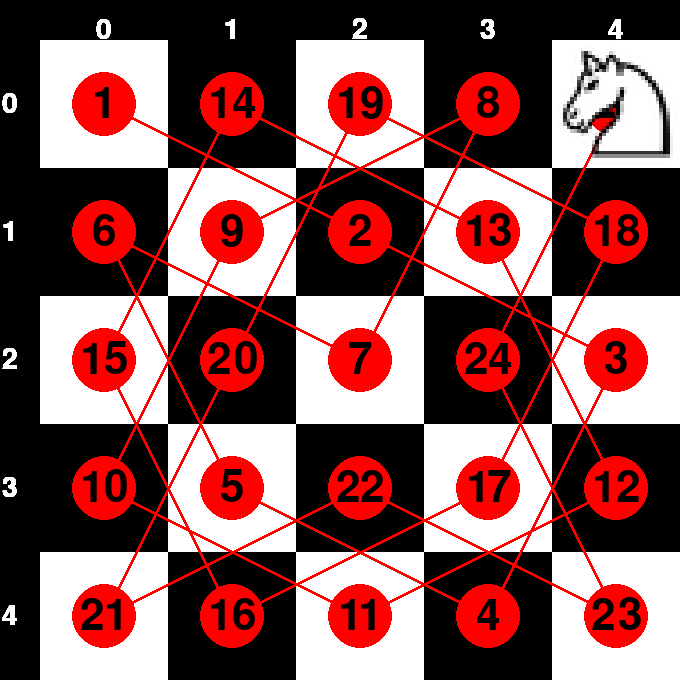
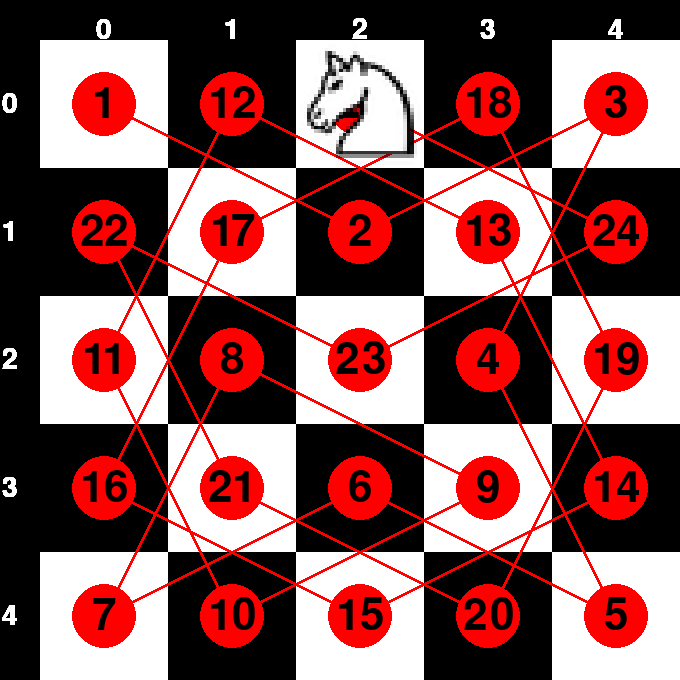
problema en la cuenta de movimientos en implementacion b&b

diff --git a/parte2/branchAndBound.py b/parte2/branchAndBound.py
@@ -17,25 +17,21 @@ def obtener_vecinos(x, y, N, visitado):
     vecinos = []
     for movimiento in movimientos:
         nuevo_x, nuevo_y = x + movimiento[0], y + movimiento[1]
-        
         if es_movimiento_valido(nuevo_x, nuevo_y, N, visitado):
             # Incrementamos movimientos_totales para cada intento de movimiento
-            
             cuenta = sum(1 for m in movimientos if es_movimiento_valido(nuevo_x + m[0], nuevo_y + m[1], N, visitado))
             vecinos.append((nuevo_x, nuevo_y, cuenta))
     
     # Ordena el array vecinos de menor a mayor
     return sorted(vecinos, key=lambda x: x[2])
 
-def recorrido_del_caballo_branch_and_bound(N, camino, visitado, x, y, cuenta_movimientos):
+def recorrido_del_caballo_branch_and_bound(N, camino, visitado, x, y, cuenta_movimientos, movimientos_totales):
     """
     Encuentra un recorrido del caballo utilizando branch and bound con la regla de Warnsdorff.
     """
     if cuenta_movimientos == N * N:
         # Si se ha recorrido todo el tablero, se ha encontrado una solución
-        return True
-    
-    global movimientos_totales
+        return True, movimientos_totales
 
     # Obtener vecinos ordenados por la cantidad de movimientos futuros (heurística)
     vecinos = obtener_vecinos(x, y, N, visitado)
@@ -47,33 +43,45 @@ def recorrido_del_caballo_branch_and_bound(N, camino, visitado, x, y, cuenta_mov
         camino.append((siguiente_y, siguiente_x))
 
         # Llama recursivamente para continuar el recorrido
-        if recorrido_del_caballo_branch_and_bound(N, camino, visitado, siguiente_x, siguiente_y, cuenta_movimientos + 1):
-            
-            return True  # Se encontró una solución
+        encontrado, movimientos_totales = recorrido_del_caballo_branch_and_bound(N, camino, visitado, siguiente_x, siguiente_y, cuenta_movimientos + 1, movimientos_totales)
+        if encontrado:
+            return camino, movimientos_totales # Se encontró una solución
 
         # Retrocede si no se encuentra solución desde esta posición
         visitado[siguiente_y][siguiente_x] = False
         camino.pop()
 
     # Poda Explicita: Si no se encuentran vecinos válidos, se detiene esta rama
-    return False
+    return False, movimientos_totales # retorna los movimientos que realizo hasta esa rama
 
 def encontrar_recorrido_del_caballo_branch_and_bound(N, inicio_x, inicio_y):
     """
     Inicializa y encuentra un recorrido del caballo en un tablero NxN utilizando branch and bound.
     """
-    global movimientos_totales
-    movimientos_totales = 0  # Reiniciar el contador para cada ejecución
-
     visitado = [[False for _ in range(N)] for _ in range(N)]
     camino = [(inicio_y, inicio_x)]
     visitado[inicio_y][inicio_x] = True
+    movimientos_totales = 1
     
-    if recorrido_del_caballo_branch_and_bound(N, camino, visitado, inicio_x, inicio_y, 1):
+    encontrado, movimientos_totales = recorrido_del_caballo_branch_and_bound(N, camino, visitado, inicio_x, inicio_y, 1, movimientos_totales)
+    if encontrado:
         return camino, movimientos_totales
     else:
-        return None  # No se encontró una solución
-    
+        None
 
-encontrar_recorrido_del_caballo_branch_and_bound(5, 0, 0)
-print(movimientos_totales)
+'''
+movimientos totales no cuenta la pos inicial
+'''
+def benchmark():
+    dim = 10
+    for i in range(1, dim+1):
+        start = time.time()
+        resultado = encontrar_recorrido_del_caballo_branch_and_bound(i, 0, 0)
+        end = time.time()
+        if resultado:
+            camino, mov_totales = resultado
+            print(f"dimensión: {i}x{i}: {mov_totales} movimientos, tiempo: {end - start} segundos")
+        else:
+            print(f"dimensión: {i}x{i} no tiene solución")
+
+benchmark()

diff --git a/parte1/backtracking.py b/parte1/backtracking.py
@@ -51,7 +51,3 @@ def resolver_recorrido_del_caballo(tablero, x, y, cuenta_movimientos, movimiento
             movimientos.pop()  # Eliminar movimiento si el camino no es válido
 
     return False, movimientos  # Retornar falso si no hay recorrido
-
-tablero = inicializar_tablero(5)
-resolver_recorrido_del_caballo(tablero, 0, 0, 1, [])
-print(total_movimientos)

diff --git a/interfaz/gui.py b/interfaz/gui.py
@@ -34,7 +34,7 @@ def comenzar_branch_and_bound():
             # Renderizar el tablero
             render = RenderChess(tamano_tablero, camino_recorrido)
             render.render()
-            print(mov_totales)
+            #print(mov_totales)
         else:
             messagebox.showinfo("Resultado", "No se encontró un recorrido completo.")
     
